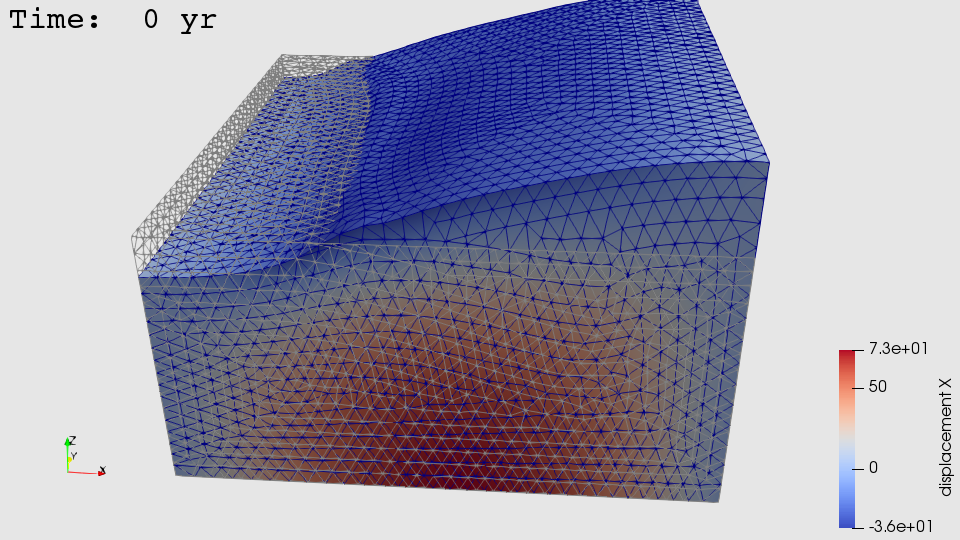
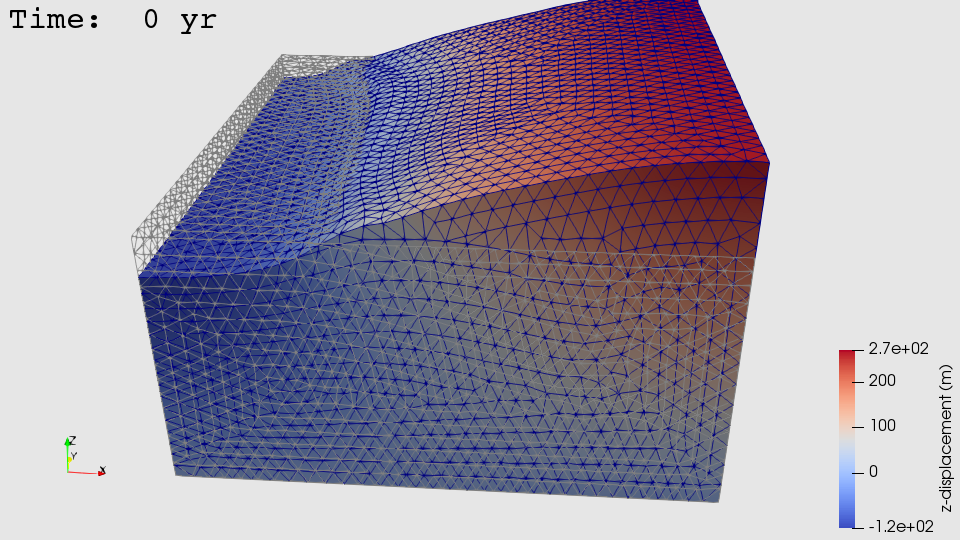
Finished writing manual section for step08, and added new figures. Slight changes to comments in the step08 .cfg files.

diff --git a/doc/userguide/examples/subduction3d.tex b/doc/userguide/examples/subduction3d.tex
@@ -1498,7 +1498,7 @@ regularization. A Python script has been provided in the
 has the numpy and matplotlib Python packages installed. From the
 \filename{viz} subdirectory, run this script as:
 \begin{shell}
-./plot_inversion_misfit.py
+$$ ./plot_inversion_misfit.py
 --summary=../output/step07-inversion-summary.txt
 \end{shell}
 This will produce a curve similar to that shown in Figure
@@ -1649,8 +1649,8 @@ the mismatched densities. Figure
 mesh visualized by running the following command from the
 \filename{subduction} directory:
 \begin{shell}
-./viz/plot_dispwarp.py --sim=step08a --exaggeration=500.0
---screenshot=subduction3d_step08a_soln.png
+$$ ./viz/plot_dispwarp.py --sim=step08a --exaggeration=500.0
+--component=Z --screenshot=subduction3d_step08a_soln.png
 \end{shell}
 \begin{figure}
   \includegraphics[width=4.5in]{examples/figs/subduction3d_step08a_soln}
@@ -1720,8 +1720,8 @@ as seen in Figure \vref{fig:example:subduction:3d:step08b}. This
 figure was also generated with the \filename{plot\_dispwarp.py}
 script, using the following command:
 \begin{shell}
-./viz/plot_dispwarp.py --sim=step08b --exaggeration=1000.0
---screenshot=subduction3d_step08b_soln.png
+$$ ./viz/plot_dispwarp.py --sim=step08b --exaggeration=1000.0
+--component=Z --screenshot=subduction3d_step08b_soln.png
 \end{shell}
 \begin{figure}
   \includegraphics[width=4.5in]{examples/figs/subduction3d_step08b_soln}
@@ -1741,5 +1741,74 @@ deformation is not taken into account when computing stresses. The
 finite strain formulation should generally be used for viscoelastic
 problems with gravity where you need accurate estimates of the
 vertical deformation.
+
+As we saw in step08b, it is possible to balance the stresses for an
+elastic problem. Once we include viscoelasticity, however, this
+becomes much more difficult. That is what we demonstrate in this
+example. Although the stresses are in equilibrium for the elastic
+solution, there are still deviatoric stresses remaining, which will
+drive viscous flow. Thus, a steady-state solution is never achieved.
+
+The only difference between the parameters in \filename{step08b.cfg}
+and \filename{step08c.cfg} is in the formulation setting and the
+simulation time:
+\begin{cfg}
+<h>[pylithapp.timedependent]</h>
+# Turn on the small strain formulation, which automatically runs the
+# simulation as a nonlinear problem.
+<f>formulation</f> = pylith.problems.ImplicitLgDeform
+
+# Set gravity field (default is None).
+<f>gravity_field</f> = spatialdata.spatialdb.GravityField
+
+<h>[pylithapp.problem.formulation.time_step]</h>
+# Define the total time for the simulation and the time step size.
+<p>total_time</p> = 100.0*year
+<p>dt</p> = 10.0*year
+\end{cfg}
+We use the material settings in \filename{mat\_viscoelastic.cfg}. We
+can run the simulation and visualize the vertical deformation for the
+last time step by doing:
+\begin{shell}
+$$ pylith step08c.cfg mat_viscoelastic.cfg solver_algebraicmultigrid.cfg
+$$ ./viz/plot_dispwarp.py --sim=step08c --exaggeration=300.0
+--component=Z --screenshot=subduction3d_step08c_soln.png
+\end{shell}
+The resulting deformation is shown in Figure
+\vref{fig:example:subduction:3d:step08c}. As a result of viscous flow,
+the vertical deformation is even larger than for sub-problem
+step08a. If we were to run the simulation for a longer time period,
+the amount of vertical deformation would continue to increase.
+\begin{figure}
+  \includegraphics[width=4.5in]{examples/figs/subduction3d_step08c_soln}
+  \caption{Image generated by running the \filename{plot\_dispwarp.py}
+    script for sub-problem step08c. Although the stresses balance in
+    the elastic solution, viscous flow in subsequent time steps
+    results in large vertical deformation.}
+  \label{fig:example:subduction:3d:step08c}
+\end{figure}
+
+\subsubsection{Exercises}
+
+\begin{itemize}
+\item What happens in sub-problem step08a if we use a different
+  reference density to compute our initial stresses?
+\item For sub-problem step08b, what happens if, for one of the
+  materials you use the initial stresses from sub-problem step08a?
+\item For sub-problem step08c, what happens if you:
+  \begin{itemize}
+  \item Run the simulation for a longer period of time?
+  \item Change the viscoelastic properties? For example, reduce the
+    viscosity, make all materials viscoelastic, switch to a power-law
+    rheology, etc.
+  \end{itemize}
+\item Is it possible to find a better initial stress state for
+  sub-problem step08c?
+  \begin{itemize}
+  \item What if the initial stresses were computed with nearly
+    incompressible materials, and all materials in the model are
+    viscoelastic?
+  \end{itemize}
+\end{itemize}
 
 % End of file
